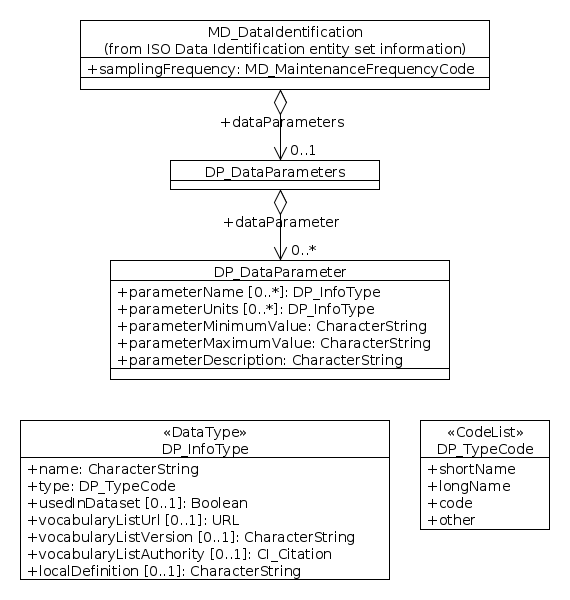
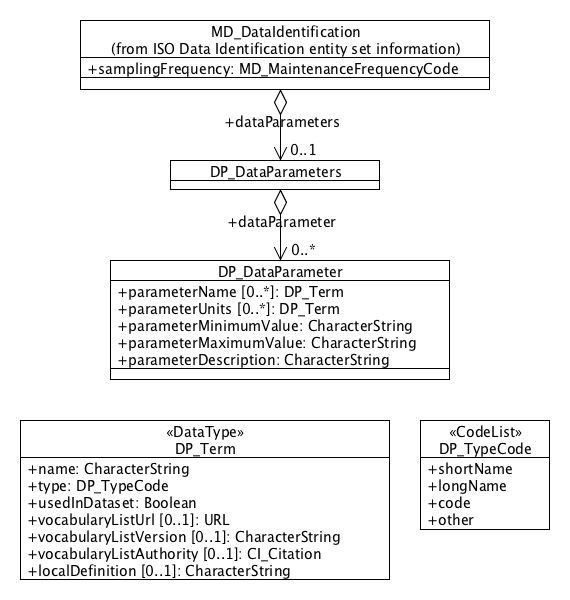
Update data parameters to correct missing usedInDataset element and some inconsistencies between schema and data dictionary and UML

diff --git a/source/extensions/dataParameters/index.rst b/source/extensions/dataParameters/index.rst
@@ -39,33 +39,36 @@ No.  Name/Role Name               Definition                                    
 ===  ===========================  ====================================================================================  ========================  ===============  ==================================  ===============================
 940  DP_DataParameters            Container for description of data set data parameters                                 Note 1                    Note 2           Aggregated Class                    Line 68                        
 941  DP_DataParameter             Container for description of a data set parameter                                     Note 1                    Note 2           Class                               Lines 942-946
-942  parameterName                Name of Parameter                                                                     M                         N                Class                               DP_InfoType        
-943  parameterUnits               Units of Parameter                                                                    M                         N                Class                               DP_InfoType        
-944  parameterMinimumValue        Minimum Value of Parameter                                                            O                         1                CharacterString                     FreeText
-945  parameterMaximumValue        Maximum Value of Parameter                                                            O                         1                CharacterString                     FreeText
-946  parameterDescription         Parameter Description                                                                 O                         1                CharacterString                     FreeText
+942  parameterName                Name of Parameter                                                                     M                         N                Class                               DP_Term           
+943  parameterUnits               Units of Parameter                                                                    M                         N                Class                               DP_Term           
+944  parameterMinimumValue        Minimum Value of Parameter                                                            M                         1                CharacterString                     FreeText
+945  parameterMaximumValue        Maximum Value of Parameter                                                            M                         1                CharacterString                     FreeText
+946  parameterDescription         Parameter Description                                                                 M                         1                CharacterString                     FreeText
 ===  ===========================  ====================================================================================  ========================  ===============  ==================================  ===============================
 
 .. include:: ../common_notes.rst
 
 .. index:: mcp:name
 .. index:: mcp:type
+.. index:: mcp:usedInDataset
 .. index:: mcp:vocabularyListUrl
 .. index:: mcp:vocabularyListVersion
 .. index:: mcp:vocabularyListAuthority
 .. index:: mcp:localDefinition
+.. index:: mcp:DP_Term
 .. index:: mcp:DP_TypeCode
 
 ===  ===========================  ====================================================================================  ========================  ===============  ==================================  ===============================
 No.  Name/Role Name               Definition                                                                            Condition/ Obligation     Max. Occurrence  Data Type                           Domain
 ===  ===========================  ====================================================================================  ========================  ===============  ==================================  ===============================
-947  DP_InfoType                  Parameter Name or Unit Information                                                    Note 1                    Note 2           Class <<DataType>>                  Lines 948-953
+947  DP_Term                      Parameter Name or Unit Information                                                    Note 1                    Note 2           Class <<DataType>>                  Lines 948-954
 948  name                         Name of Parameter or Unit (depending on parent)                                       M                         1                CharacterString                     FreeText
 949  type                         Type of Parameter name or Unit name                                                   M                         1                CodeList                            DP_TypeCode
-950  vocabularyListURL            URL of the parameter/unit vocabulary list/service that includes this name             O                         1                Class                               URL         
-951  vocabularyListVersion        Version of the parameter/unit vocabulary list/service that includes this name         O                         1                CharacterString                     FreeText
-952  vocabularyListAuthority      Citation of authority regulating or managing vocabulary list specified at 950         O                         1                Class                               CI_Citation 
-953  localDefinition              Definition of the parameter/unit name if not available from vocabulary list/service   O                         1                CharacterString                     FreeText
+950  usedInDataset                Flag to indicate whether the parameter is used in the dataset                         M                         1                Boolean
+951  vocabularyListURL            URL of the parameter/unit vocabulary list/service that includes this name             O                         1                Class                               URL         
+952  vocabularyListVersion        Version of the parameter/unit vocabulary list/service that includes this name         O                         1                CharacterString                     FreeText
+953  vocabularyListAuthority      Citation of authority regulating or managing vocabulary list specified at 950         O                         1                Class                               CI_Citation 
+954  localDefinition              Definition of the parameter/unit name if not available from vocabulary list/service   O                         1                CharacterString                     FreeText
 ===  ===========================  ====================================================================================  ========================  ===============  ==================================  ===============================
 
 .. include:: ../common_notes.rst
